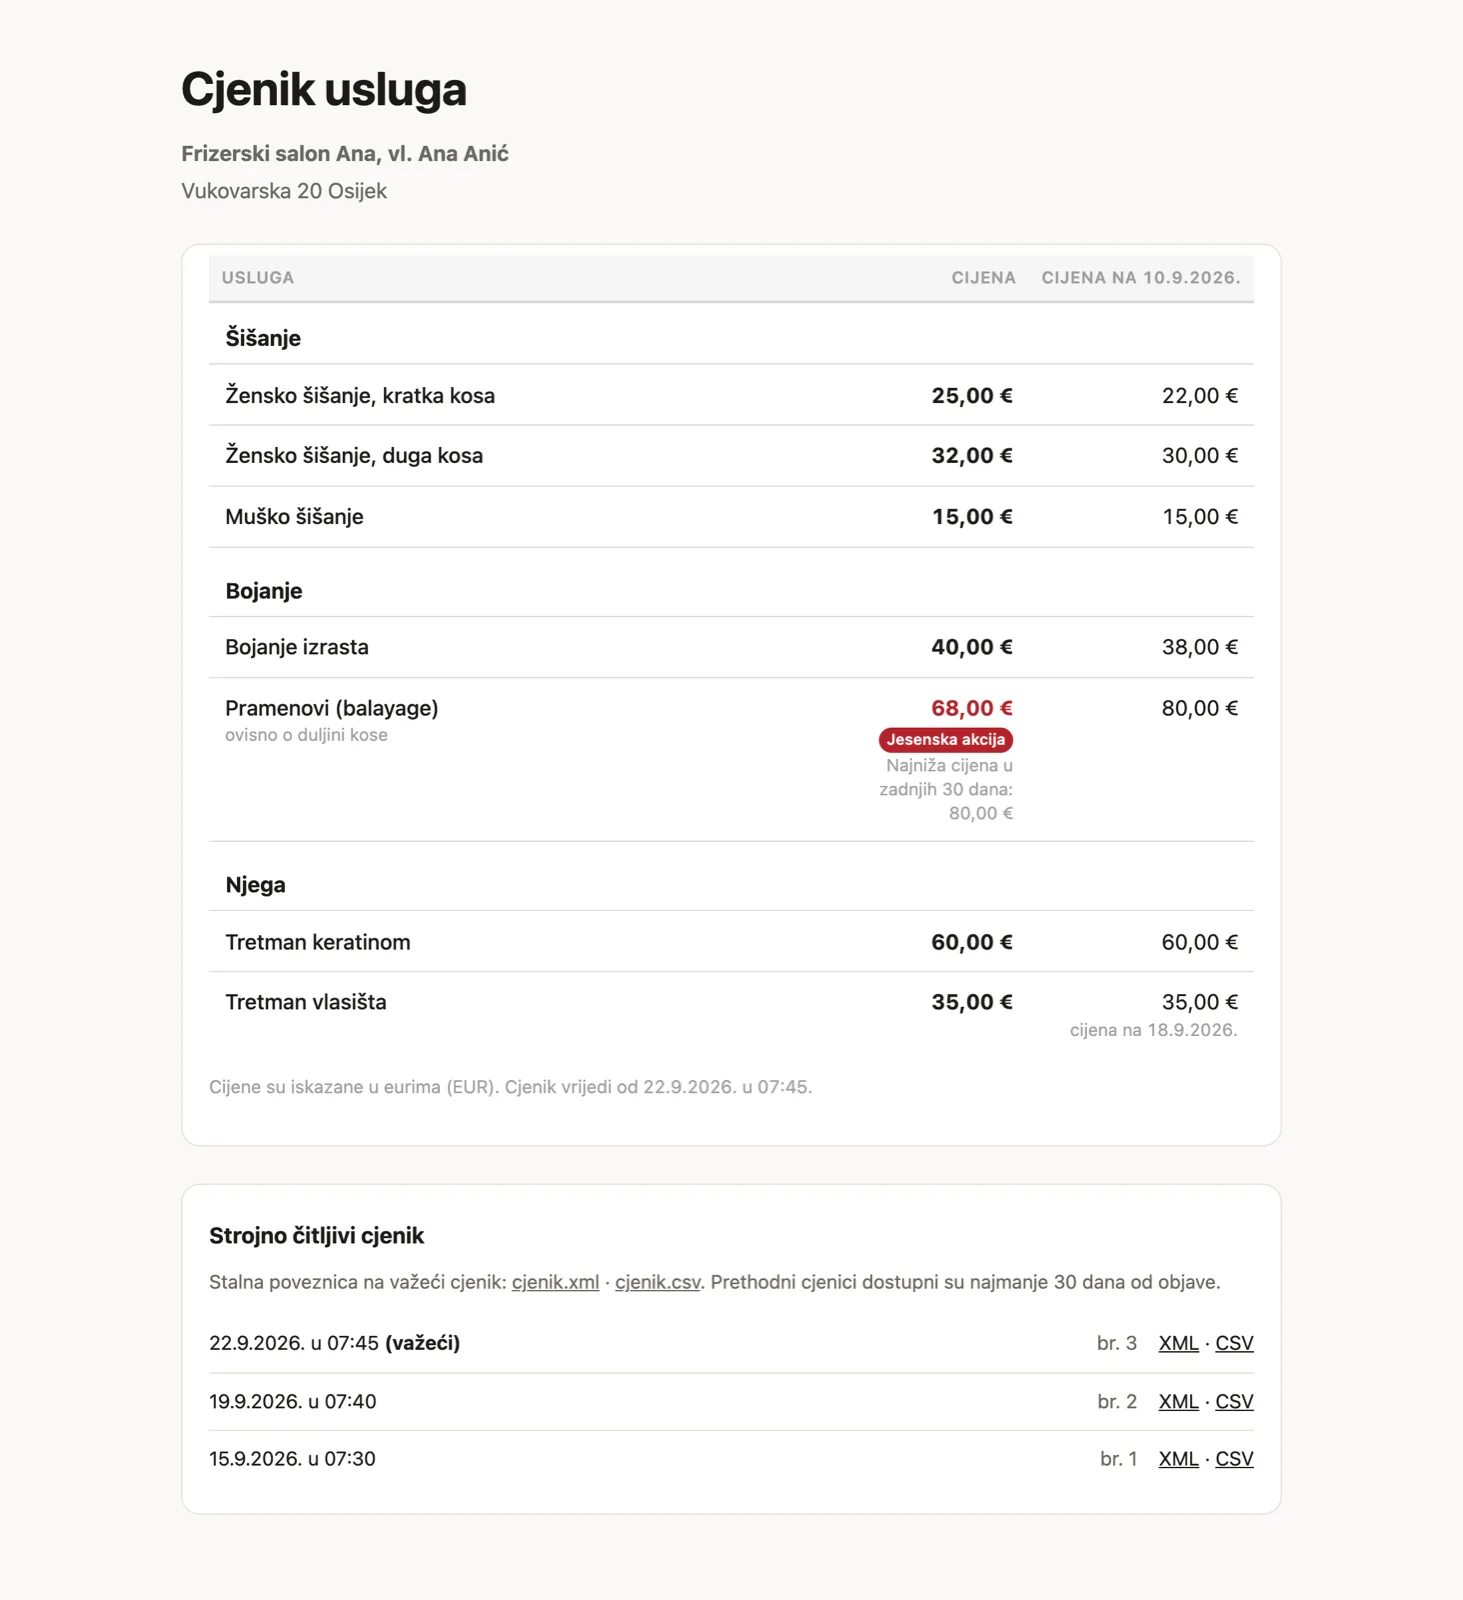
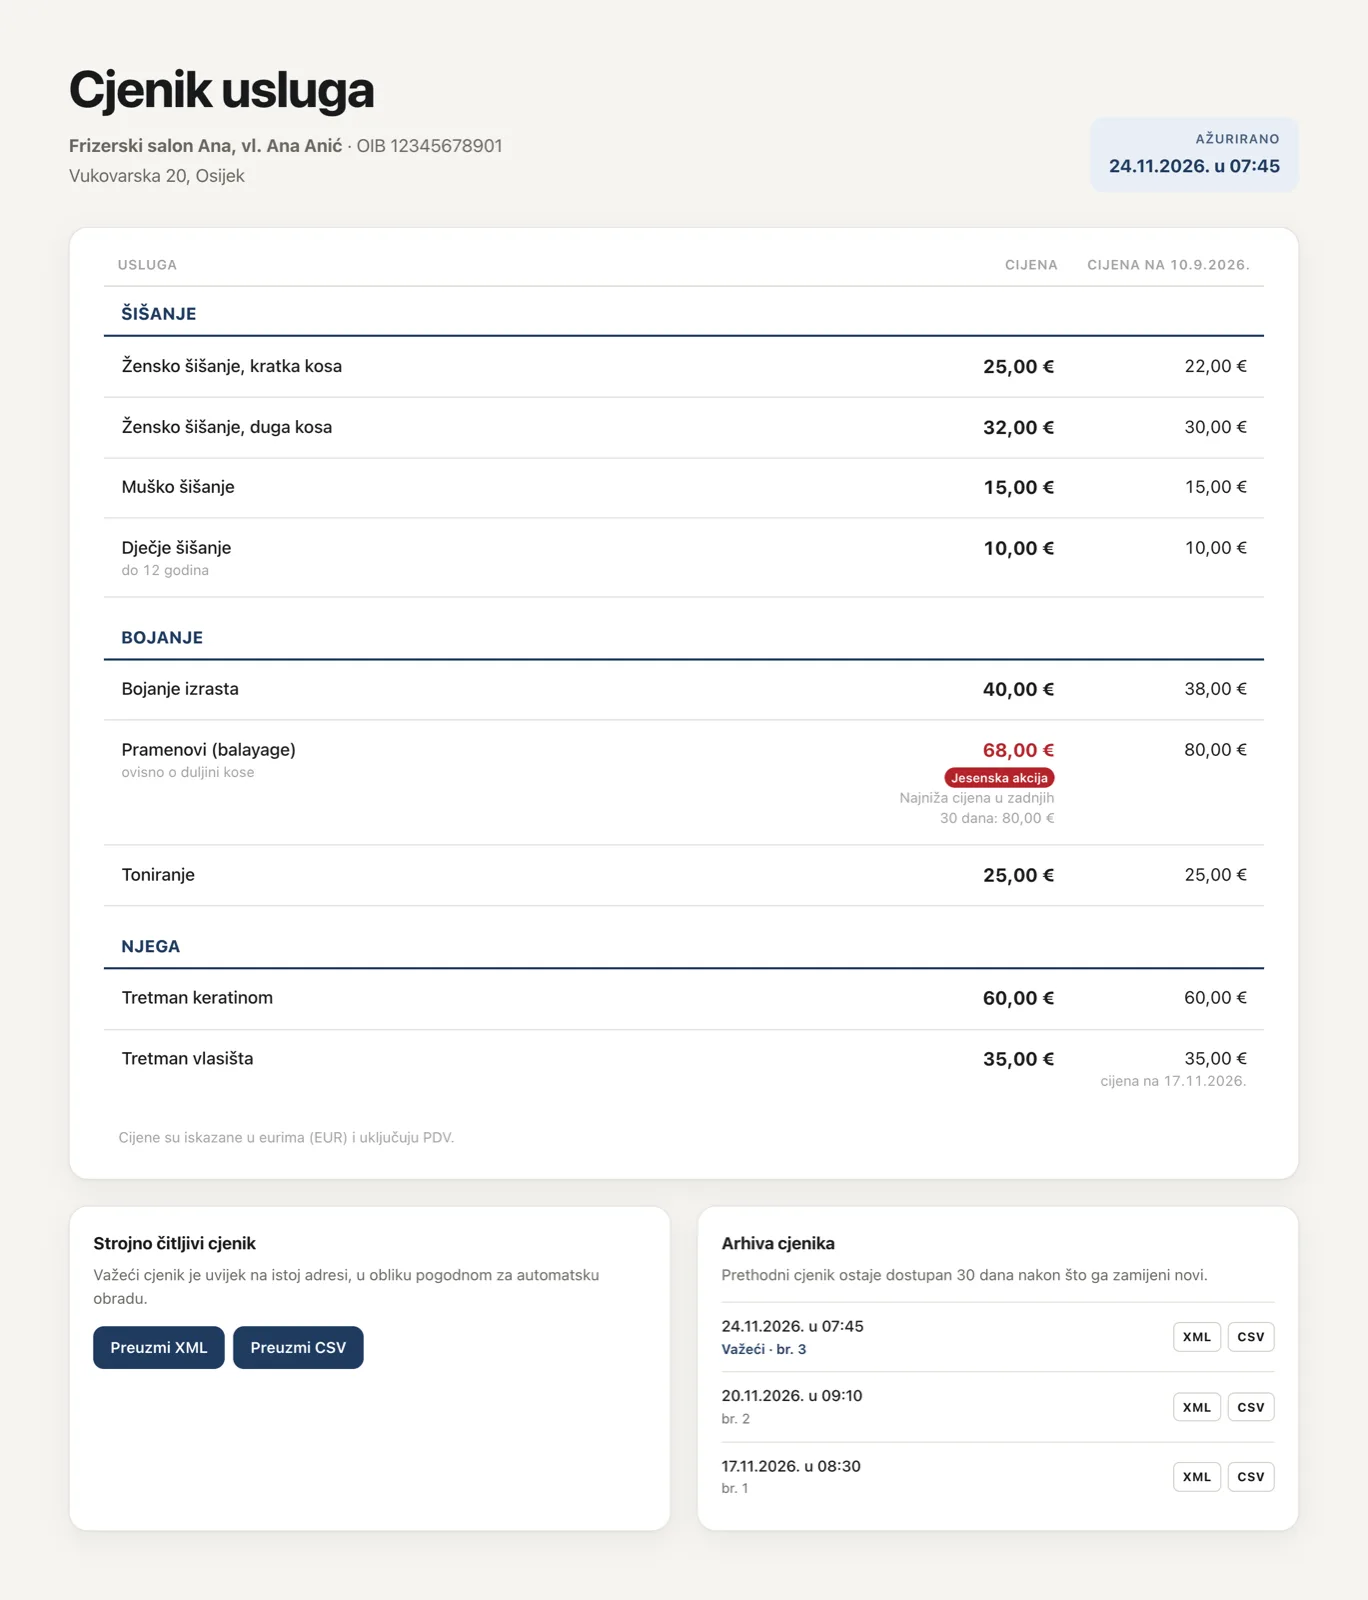
Naslovi kategorija 1rem, zarez izvan naziva datoteke, nove snimke i dokumentacija (v1.2.4)

diff --git a/cjenik/_sustav/admin.html b/cjenik/_sustav/admin.html
@@ -367,7 +367,7 @@ function iscrtajPostavke() {
 function iducaDatoteka() {
   const d = new Intl.DateTimeFormat('en-GB', { timeZone: 'Europe/Zagreb', day: '2-digit', month: '2-digit', year: 'numeric', hour: '2-digit', minute: '2-digit', hourCycle: 'h23' })
     .formatToParts(new Date()).reduce((a, p) => ((a[p.type] = p.value), a), {});
-  const cisti = (s) => String(s || '').trim().replace(/[\\/:*?"<>|]+/g, '-').replace(/[\s_]+/g, '_') || '…';
+  const cisti = (s) => String(s || '').replace(/[,;]/g, ' ').trim().replace(/[\\/:*?"<>|]+/g, '-').replace(/[\s_]+/g, '_') || '…';
   const broj = String((podaci.brojPohrane || 0) + 1).padStart(3, '0');
   // Pravilnik (NN 132/2026), čl. 6.: OIB_mjesto_adresa_oznaka_USLUGE_broj_GGGGMMDD_HHMM
   const o = podaci.objekt;

diff --git a/tests/testovi.php b/tests/testovi.php
@@ -68,6 +68,11 @@ test('naziv datoteke prema Pravilniku NN 132/2026 (čl. 6. st. 3.)', function ()
     jednako(Formati::nazivDatoteke($p, 15, $pocetak, 'xml'), '12345678901_servis_Vukovarska_20_Osijek_U-03_USLUGE_015_20261001_0745.xml');
 });
 
+test('naziv datoteke: zarez iz adrese se uklanja', function () use ($pocetak) {
+    $p = Podaci::normaliziraj(['obveznik' => ['oib' => '12345678901'], 'objekt' => ['oblik' => 'salon', 'adresa' => 'Vukovarska 20, Osijek', 'oznaka' => '01']]);
+    jednako(Formati::nazivDatoteke($p, 4, $pocetak, 'xml'), '12345678901_salon_Vukovarska_20_Osijek_01_USLUGE_004_20261001_0745.xml');
+});
+
 test('naziv datoteke: jedan cjenik za sva prodajna mjesta (čl. 6. st. 4.)', function () use ($pocetak) {
     $p = Podaci::normaliziraj(['obveznik' => ['oib' => '12345678'], 'objekt' => ['oblik' => 'salon', 'adresa' => 'x', 'oznaka' => '1', 'svaMjesta' => true]]);
     jednako(Formati::nazivDatoteke($p, 1, $pocetak, 'csv'), '12345678_ZA_SVA_PRODAJNA_MJESTA_USLUGE_001_20261001_0745.csv');

diff --git a/cjenik/_sustav/lib/Prikaz.php b/cjenik/_sustav/lib/Prikaz.php
@@ -193,7 +193,7 @@ $css
 .glavna .cjenik-tablica{font-size:1.02rem}
 .glavna .cjenik-tablica thead th{background:none;padding-top:1.1em;padding-bottom:.8em;border-bottom:1px solid var(--rub-jak)}
 .glavna .cjenik-tablica th,.glavna .cjenik-tablica td{padding:.95em 1em}
-.glavna .cjenik-tablica .cjenik-kategorija th{padding:1.6em 1em .55em;font-size:1.05rem;font-weight:750;text-transform:uppercase;letter-spacing:.015em;color:var(--akcent);border-bottom:2px solid var(--akcent)}
+.glavna .cjenik-tablica .cjenik-kategorija th{padding:1.6em 1em .55em;font-size:1rem;font-weight:750;text-transform:uppercase;letter-spacing:.015em;color:var(--akcent);border-bottom:2px solid var(--akcent)}
 .glavna .cjenik-tablica tbody tr:not(.cjenik-kategorija):hover td{background:color-mix(in srgb,var(--akcent-blago) 55%,transparent)}
 .glavna .cjenik-tablica .cjenik-cijena{font-size:1.08em}
 .glavna .cjenik-podnozje{margin:18px 1em 0}

diff --git a/cjenik/_sustav/lib/Formati.php b/cjenik/_sustav/lib/Formati.php
@@ -14,9 +14,10 @@ final class Formati
     const VRSTA = 'USLUGE';
     const SVA_MJESTA = 'ZA_SVA_PRODAJNA_MJESTA';
 
-    /** Razmaci postaju '_', a znakovi koji ne smiju u naziv datoteke postaju '-'. */
+    /** Razmaci postaju '_', zarezi i točke-zarezi se uklanjaju, a znakovi koji ne smiju u naziv datoteke postaju '-'. */
     public static function cistiDio(string $s): string
     {
+        $s = str_replace([',', ';'], ' ', $s);
         $s = preg_replace('/[\\\\\/:*?"<>|]+/u', '-', trim($s));
         return preg_replace('/[\s_]+/u', '_', $s);
     }

diff --git a/README.md b/README.md
@@ -20,26 +20,36 @@ Sve radi na hostingu stranice. Klijent se prijavi u preglednik, upiše usluge i 
 
 ## Kako izgleda
 
+### Javni cjenik
+
+<p align="center"><img src="docs/snimke/javni-cjenik.webp" alt="Javna stranica cjenika" width="820"></p>
+
+Javna stranica `/cjenik/` široka je do 1200 px. U zaglavlju su naziv obrta s OIB-om i adresa, a desno datum zadnjeg ažuriranja. Tablica ide preko cijele širine, grupirana po kategorijama, s trenutnom i baznom cijenom (cijena na 10.9.2026.) te oznakom akcije. Ispod su preuzimanje strojno čitljivog cjenika (XML/CSV) i arhiva prethodnih cjenika.
+
+### Sučelje za uređivanje
+
 <p align="center"><img src="docs/snimke/sucelje.webp" alt="Sučelje za uređivanje cjenika" width="820"></p>
 
-Usluge, trenutne cijene i cijene na 10.9.2026. upisuju se u tablicu. Pregled pokazuje kako će cjenik izgledati na stranici, a desno je arhiva objavljenih XML-ova.
+Redom: podaci o obrtu i prodajnom mjestu (s prikazom naziva iduće datoteke), postavke (zatvorene dok ih ne otvoriš), usluge i cijene, pregled tablice preko cijele širine i na kraju popis objavljenih cjenika.
 
 <table>
 <tr>
-<td width="50%"><img src="docs/snimke/prijava.webp" alt="Prijava"><br><sub>Prijava e-mailom i lozinkom, uz zaboravljenu lozinku</sub></td>
-<td width="50%"><img src="docs/snimke/javni-cjenik.webp" alt="Javni cjenik"><br><sub>Javna stranica cjenika s arhivom XML-ova</sub></td>
+<td width="50%"><img src="docs/snimke/pregled.webp" alt="Pregled tablice"><br><sub>Pregled tablice dok se piše</sub></td>
+<td width="50%"><img src="docs/snimke/postavke.webp" alt="Postavke"><br><sub>Postavke: umetanje u stranice, arhiva, ažuriranje, e-mail, sigurnost, prijava</sub></td>
 </tr>
 <tr>
-<td width="50%"><img src="docs/snimke/postavke.webp" alt="Postavke"><br><sub>Postavke: umetanje u stranice, arhiva, ažuriranje, e-mail, sigurnost</sub></td>
+<td width="50%"><img src="docs/snimke/prijava.webp" alt="Prijava"><br><sub>Prijava e-mailom i lozinkom, uz zaboravljenu lozinku</sub></td>
 <td width="50%"><img src="docs/snimke/tamna.webp" alt="Tamna tema"><br><sub>Tamna tema (prekidač u zaglavlju)</sub></td>
 </tr>
 </table>
 
+### Na mobitelu
+
 <p align="center">
-<img src="docs/snimke/mobitel.webp" alt="Sučelje na mobitelu" width="260">
+<img src="docs/snimke/javni-mobitel.webp" alt="Javni cjenik na mobitelu" width="260">
 &nbsp;&nbsp;
-<img src="docs/snimke/mobitel-pregled.webp" alt="Pregled tablice na mobitelu" width="260">
-<br><sub>Na mobitelu</sub>
+<img src="docs/snimke/mobitel.webp" alt="Sučelje na mobitelu" width="260">
+<br><sub>Na mobitelu je svaka usluga kartica s označenim cijenama; isto vrijedi i za tablicu umetnutu u stranice weba i widget.</sub>
 </p>
 
 ## Preuzimanje
@@ -70,10 +80,11 @@ Na instalacijskom ekranu plugin javlja ako ne može pisati u svoje mape ili ako 
 
 ## Kako klijent radi
 
-Na adresi `https://stranica.hr/cjenik/admin/` se prijavi e-mailom i lozinkom i uredi:
+Na adresi `https://stranica.hr/cjenik/admin/` se prijavi e-mailom i lozinkom i uredi (redom kako je u sučelju):
 
 - **Obrt i prodajno mjesto:** naziv, OIB ili matični broj obrta, prodajno mjesto (salon, servis, ured…), adresa i oznaka, ili kvačica *Jedan cjenik za sva prodajna mjesta*. Ti podaci ulaze u naziv datoteke.
 - **Usluge:** opis, trenutna cijena i bazna cijena (cijena na 10.9.2026.). Kad se upiše trenutna cijena, bazna se predloži sama. Neobavezno se dodaju kategorija, jedinica i akcija.
+- **Postavke** (ispod podataka o obrtu, zatvorene dok se ne otvore): tablica na stranicama weba, arhiva, ažuriranje plugina, slanje e-maila, sigurnost i prijava.
 - **Uvoz:** standardizirani Excel (`.xlsx`) ili CSV može zamijeniti sve stavke u nacrtu. Datoteka se obrađuje iz privremene upload putanje i ne sprema se na web. Uvoz ne objavljuje cjenik dok se ne klikne *Objavi*.
 - **Objavi cjenik:** nastaje novi XML/CSV, osvježi se javna stranica, umetne se tablica u stranice weba i obrišu se stari cjenici. Izmijenjeni cjenik objavljuje se **najkasnije do 11:00 na dan izmjene**.
 
@@ -85,7 +96,7 @@ Izmjene se automatski spremaju kao nacrt. Javno se ništa ne mijenja dok se ne k
 
 ```
 cjenik/
-├── index.html            javna stranica: tablica cijena i popis XML-ova
+├── index.html            javna stranica: tablica cijena, preuzimanje i arhiva
 ├── cjenik.xml            stalna poveznica na važeći cjenik
 ├── cjenik.csv            (ako je uključen CSV)
 ├── tablica.html          fragment tablice za widget
